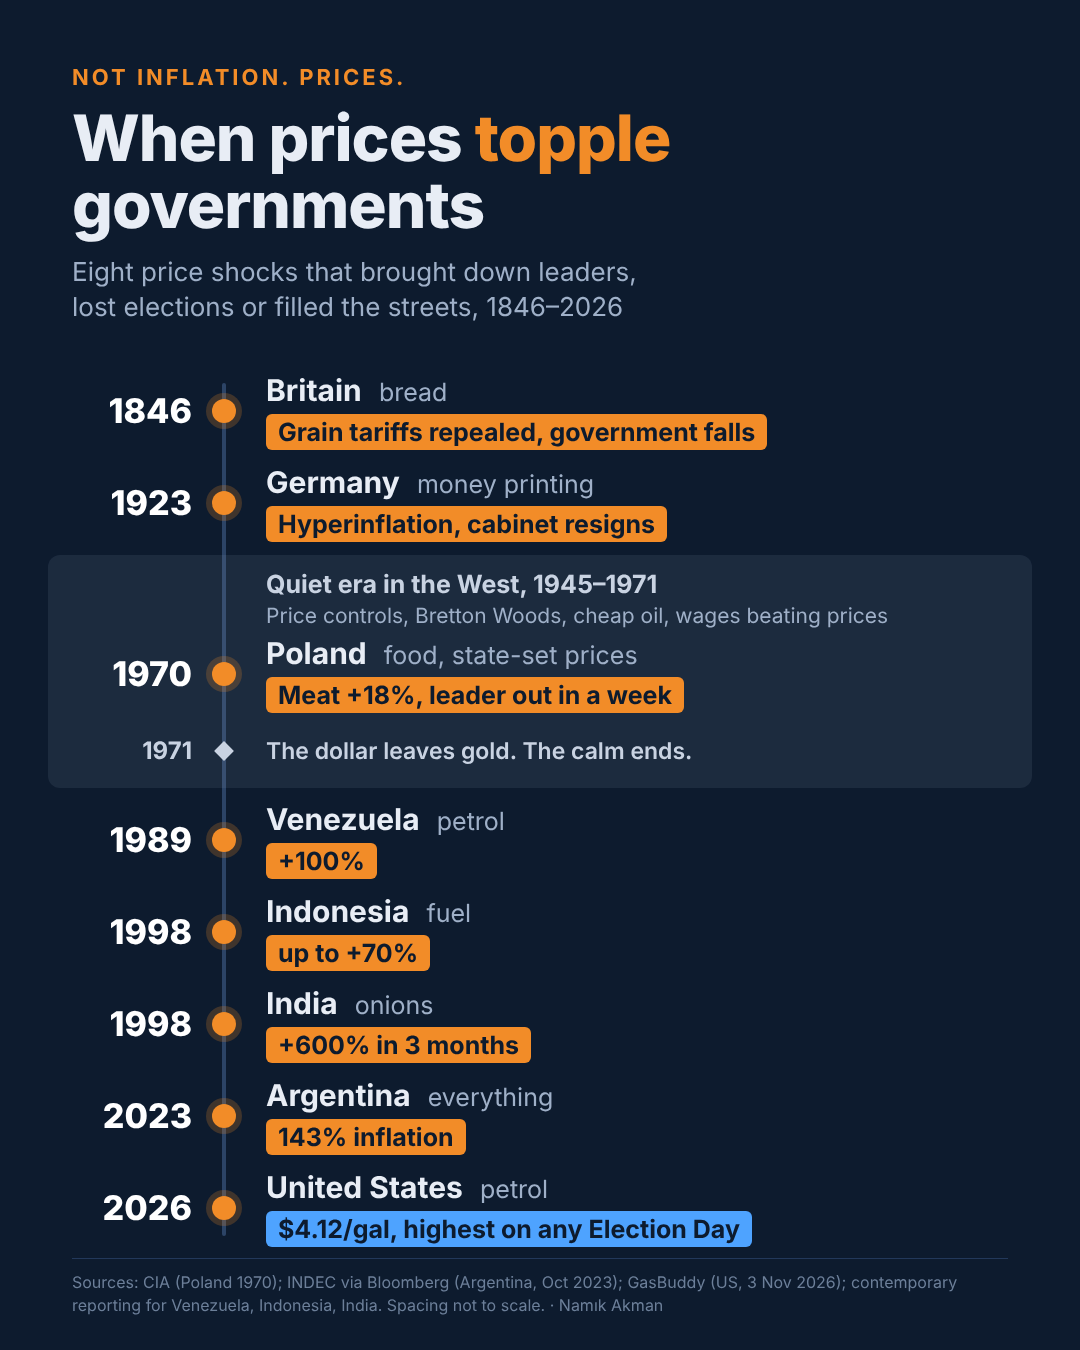
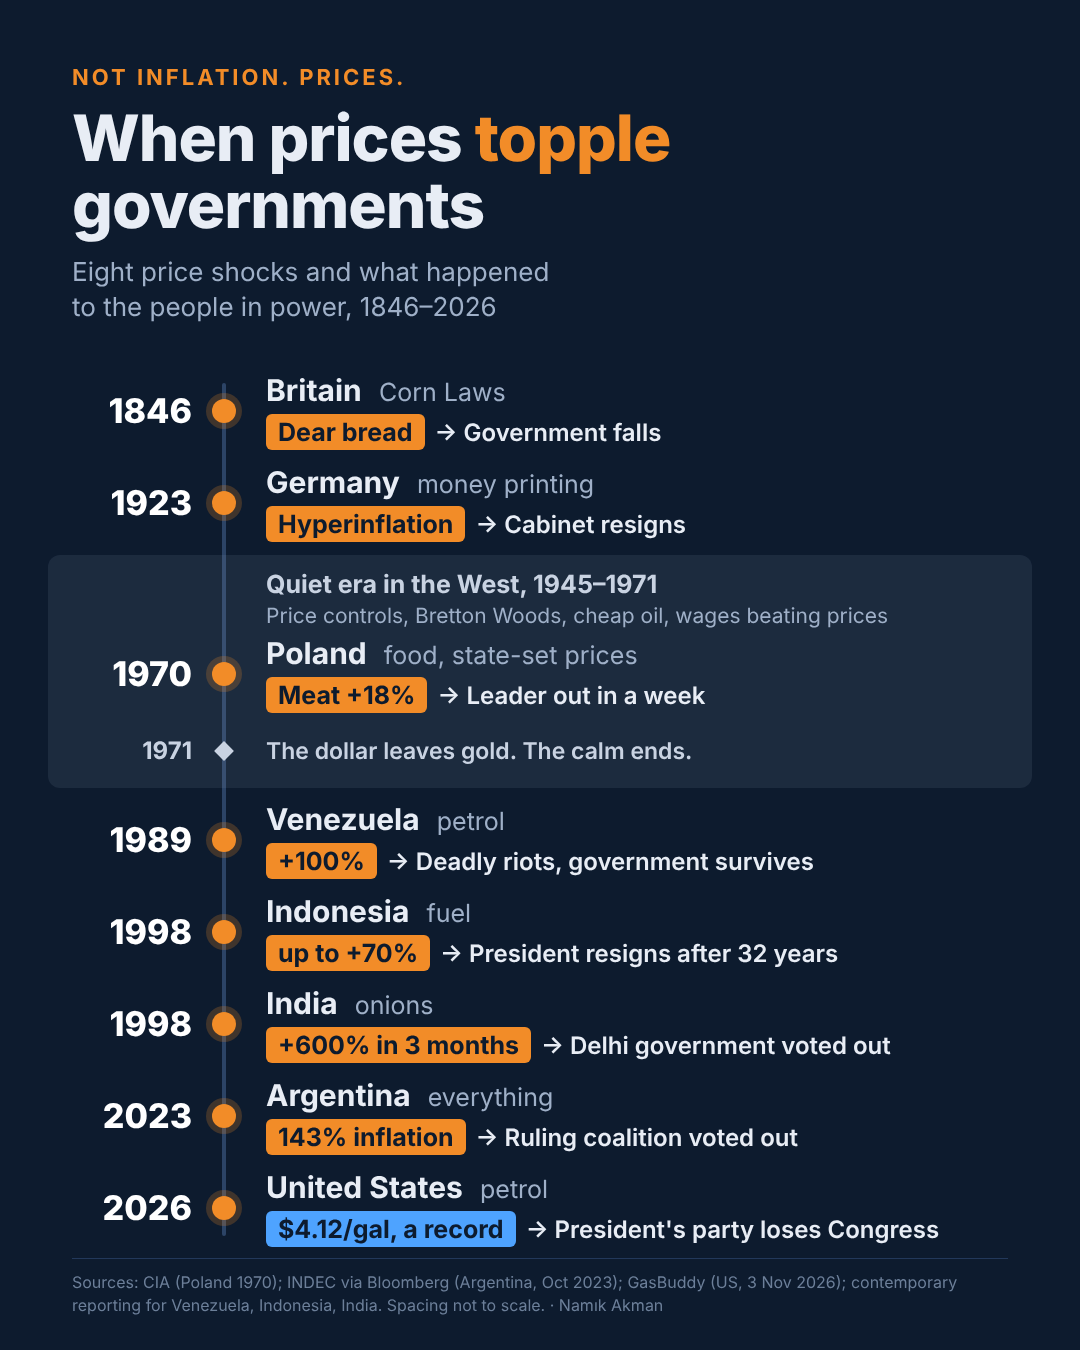
Prices study: match the published LinkedIn image and text
Claude-Session: https://claude.ai/code/session_012ZYCF3Cvunoj4sxcUW8vYH

diff --git a/prices-toppled-governments.html b/prices-toppled-governments.html
@@ -4,7 +4,7 @@
   <meta charset="UTF-8" />
   <meta name="viewport" content="width=device-width, initial-scale=1" />
   <title>When prices topple governments &mdash; Nam&#305;k Akman</title>
-  <meta name="description" content="Eight price shocks that brought down leaders, lost elections or filled the streets, 1846&ndash;2026, and the quiet era from 1945 to 1971 when price revolts in the West nearly stopped. Not inflation: prices." />
+  <meta name="description" content="Eight price shocks and what happened to the people in power, 1846&ndash;2026, and the quiet era from 1945 to 1971 when price revolts in the West nearly stopped. Not inflation: prices." />
   <meta name="keywords" content="price level, inflation, elections, incumbents, cost of living, Bretton Woods, economic history, pricing" />
   <link rel="icon" type="image/svg+xml" href="favicon.svg" />
   <meta name="theme-color" content="#2F9BFF" />
@@ -68,7 +68,7 @@
 
         <div class="fs-card fs-hero">
           <img src="assets/linkedin/prices-toppled-governments.png"
-               alt="Timeline infographic, When prices topple governments, 1846 to 2026. Britain 1846, bread: grain tariffs repealed, government falls. Germany 1923, money printing: hyperinflation, cabinet resigns. A grey band marks the quiet era in the West, 1945 to 1971, with Poland 1970, meat up 18%, leader out in a week, and a 1971 marker: the dollar leaves gold, the calm ends. Venezuela 1989, petrol up 100%. Indonesia 1998, fuel up to 70%. India 1998, onions up 600% in three months. Argentina 2023, 143% inflation. United States 2026, petrol at 4.12 dollars a gallon, the highest on any Election Day.">
+               alt="Timeline infographic, When prices topple governments, 1846 to 2026. Britain 1846, Corn Laws: dear bread, government falls. Germany 1923: hyperinflation, cabinet resigns. A grey band marks the quiet era in the West, 1945 to 1971, with Poland 1970, meat up 18%, leader out in a week, and a 1971 marker: the dollar leaves gold, the calm ends. Venezuela 1989, petrol up 100%: deadly riots, government survives. Indonesia 1998, fuel up to 70%: president resigns after 32 years. India 1998, onions up 600% in three months: Delhi government voted out. Argentina 2023, 143% inflation: ruling coalition voted out. United States 2026, petrol at a record 4.12 dollars a gallon: the president's party loses Congress.">
           <p class="cap">Spacing on the timeline is not to scale. Each entry is a case where high
             prices were a main reason, not the only one.</p>
         </div>
@@ -82,7 +82,7 @@
           <p><strong>1970, Poland &mdash; food at state-set prices.</strong> Meat about +18% just
             before Christmas. Strikes followed, and the party leader was gone within a week.</p>
           <p><strong>1989, Venezuela &mdash; petrol.</strong> Petrol +100% and higher bus fares.
-            Deadly riots in Caracas.</p>
+            Deadly riots in Caracas; the government survived.</p>
           <p><strong>1998, Indonesia &mdash; fuel.</strong> Fuel up to +70%. The president resigned
             after 32 years.</p>
           <p><strong>1998, India &mdash; onions.</strong> Onions +600% in three months. Delhi&#8217;s
@@ -91,7 +91,7 @@
           <p><strong>2023, Argentina &mdash; everything.</strong> 143% annual inflation in the last
             official figure before the runoff. Voters threw out the governing coalition.</p>
           <p><strong>2026, United States &mdash; petrol.</strong> $4.12 a gallon on 3 November, the
-            highest petrol price on any Election Day.</p>
+            highest petrol price on any Election Day. The president&#8217;s party lost both houses of Congress.</p>
         </div>
 
         <div class="fs-card">
@@ -130,7 +130,7 @@
         <div class="fs-card">
           <h3>What this does not show</h3>
           <p class="fs-warn">This is a set of cases, not a statistical test. Each was chosen because
-            high prices were a main reason a government fell, lost an election or faced the streets;
+            high prices were a main reason a government fell, lost an election or faced the streets (in Venezuela 1989 it survived);
             elections and uprisings always have more than one cause, and plenty of price shocks did
             not topple anyone. The price measures differ by entry: one staple (bread, meat, petrol,
             onions) in some, headline inflation in others. No leaders or parties are named.</p>

diff --git a/projects.html b/projects.html
@@ -400,7 +400,7 @@
 
           <article class="card" data-cat="planning">
             <div class="card-media">
-              <img loading="lazy" src="assets/linkedin/prices-toppled-governments.png" alt="Timeline infographic: eight price shocks from Britain 1846 to the United States 2026 that brought down leaders, lost elections or filled the streets, with a grey quiet-era band from 1945 to 1971.">
+              <img loading="lazy" src="assets/linkedin/prices-toppled-governments.png" alt="Timeline infographic: eight price shocks from Britain 1846 to the United States 2026 and what happened to the people in power, with a grey quiet-era band from 1945 to 1971.">
             </div>
             <span class="tag">Economics &middot; Study &middot; History</span>
             <h3>When Prices Topple Governments</h3>
